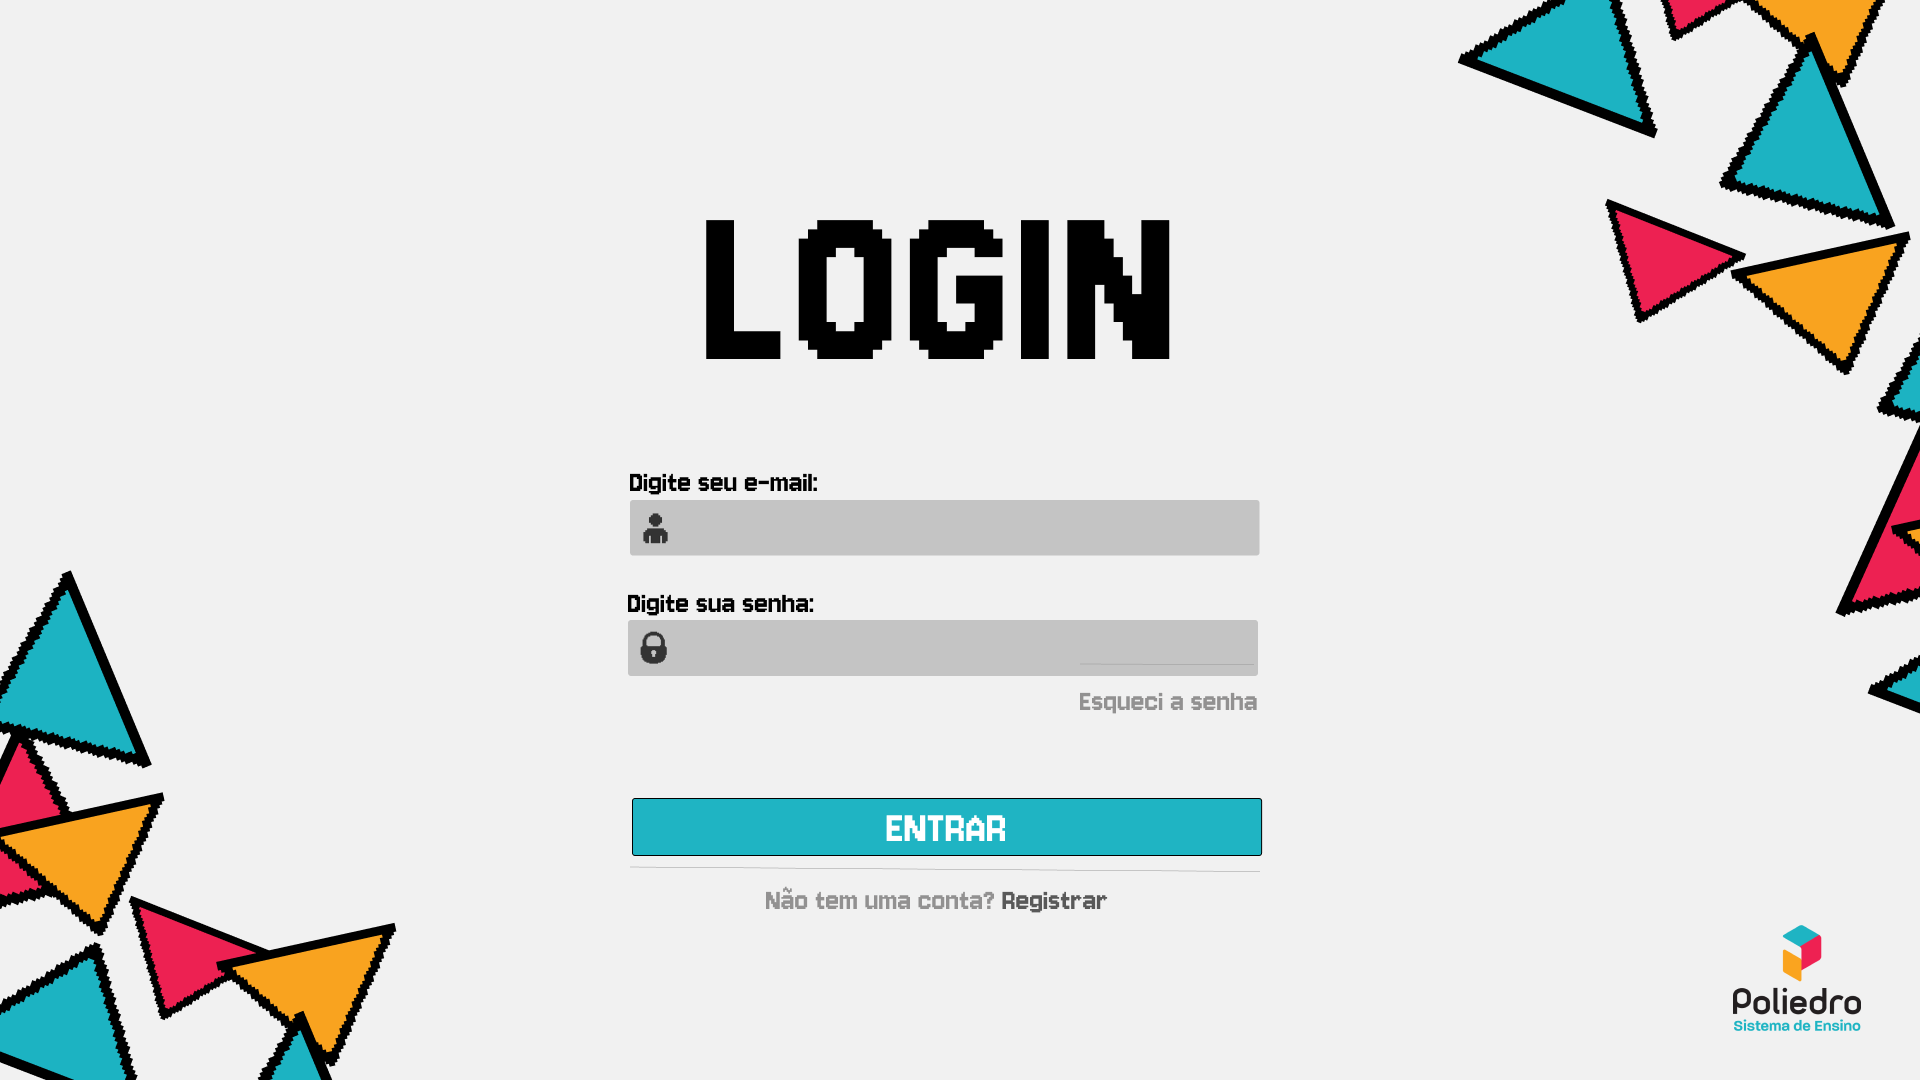
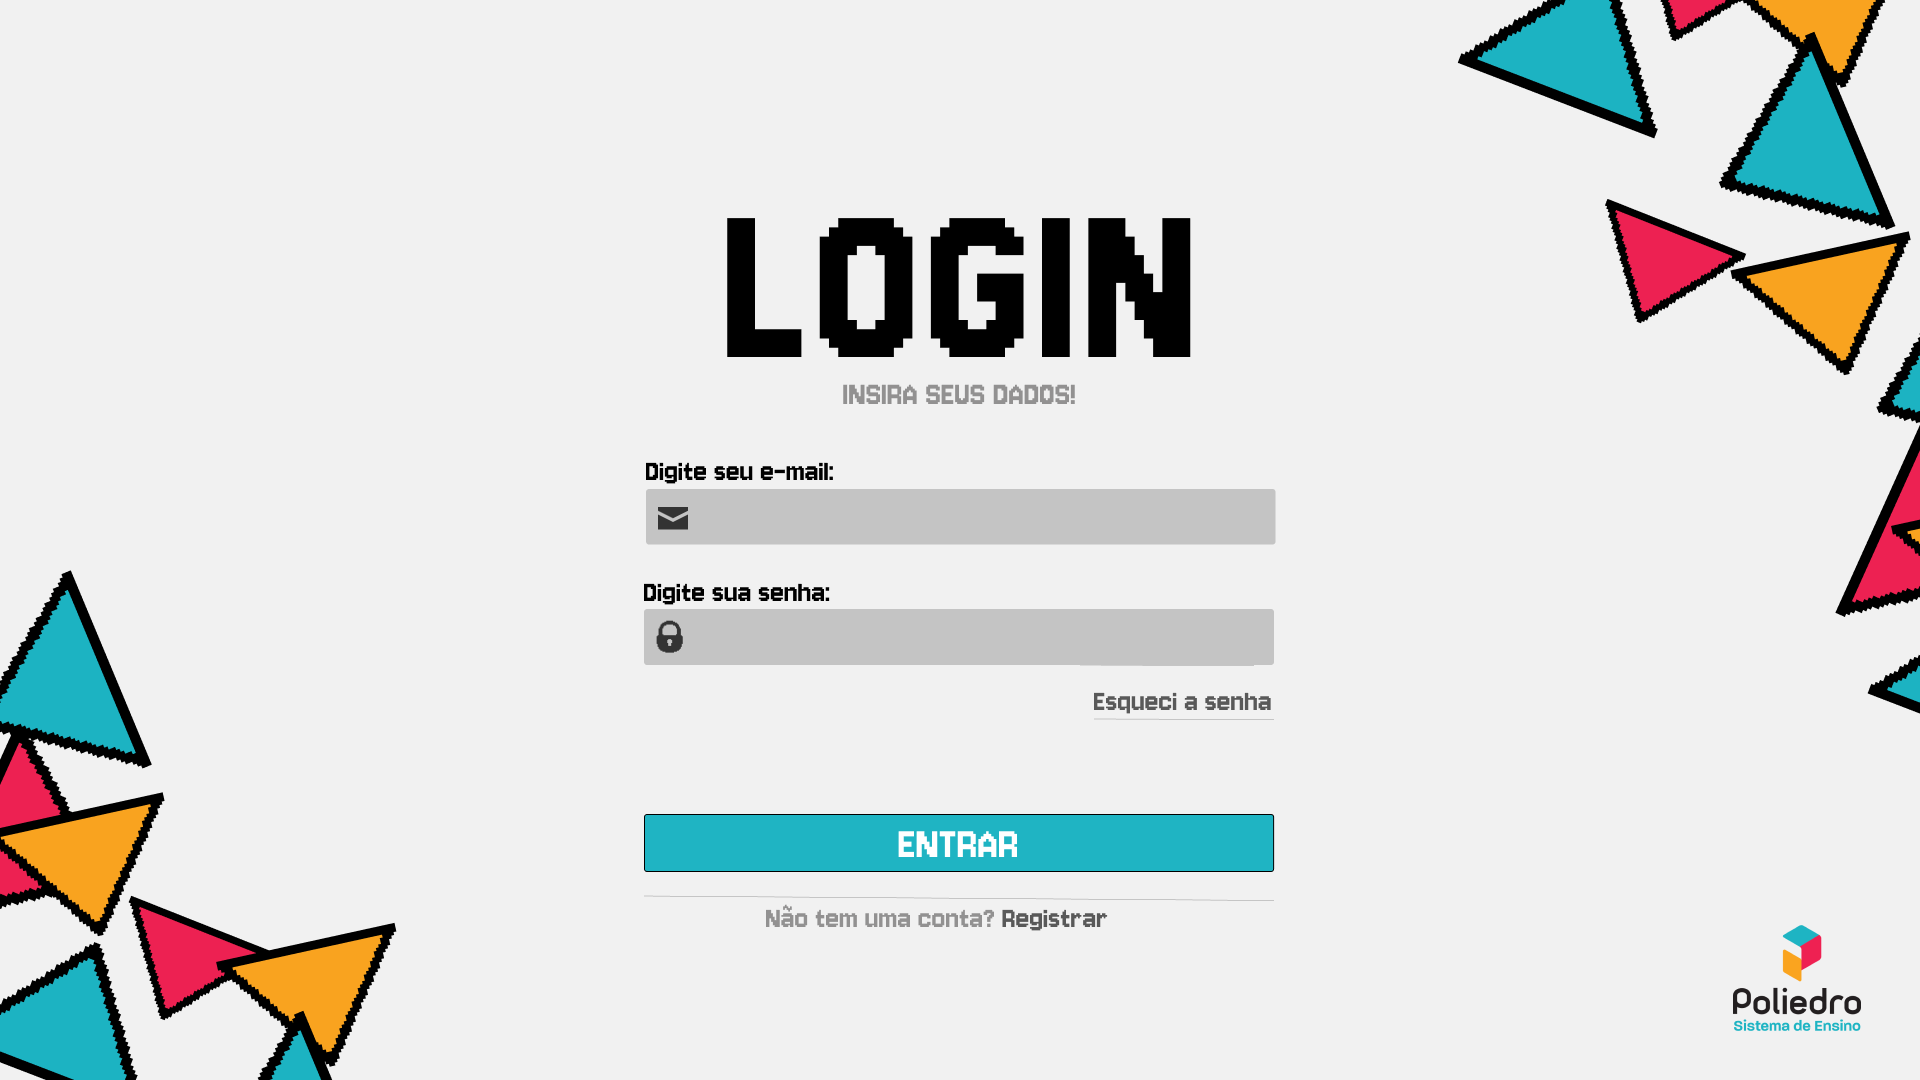
feat: adiciona tela cadastro

Changed region(s): [[0.3125, 0.4278, 0.6875, 0.6722], [0.3438, 0.1833, 0.625, 0.3972], [0.3125, 0.7333, 0.6875, 0.8556]]

diff --git a/PoliCards-1.1.0/src/main/java/telas/TelaCadastro.java b/PoliCards-1.1.0/src/main/java/telas/TelaCadastro.java
@@ -4,6 +4,13 @@
  */
 package telas;
 
+import java.sql.Connection;
+import java.sql.DriverManager;
+import java.sql.PreparedStatement;
+import java.sql.SQLException;
+import javax.swing.JOptionPane;
+import persistencia.ConnectionFactory;
+
 /**
  *
  * @author AMD
@@ -26,33 +33,94 @@ public class TelaCadastro extends javax.swing.JFrame {
     // <editor-fold defaultstate="collapsed" desc="Generated Code">//GEN-BEGIN:initComponents
     private void initComponents() {
 
-        jLabel2 = new javax.swing.JLabel();
-        botaoSenha = new javax.swing.JPasswordField();
-        jLabel1 = new javax.swing.JLabel();
-        boatoCadastro = new javax.swing.JButton();
+        cadastroButton = new javax.swing.JButton();
+        cadastroTextField = new javax.swing.JTextField();
+        senhaConfirmeCadastroPassworldField = new javax.swing.JPasswordField();
+        senhaCadastroPasswordField = new javax.swing.JPasswordField();
+        telaCadastroLabel = new javax.swing.JLabel();
 
         setDefaultCloseOperation(javax.swing.WindowConstants.EXIT_ON_CLOSE);
         setSize(new java.awt.Dimension(1440, 1024));
-        getContentPane().setLayout(null);
-        getContentPane().add(jLabel2);
-        jLabel2.setBounds(6, 208, 0, 16);
-        getContentPane().add(botaoSenha);
-        botaoSenha.setBounds(530, 560, 450, 50);
+        getContentPane().setLayout(new org.netbeans.lib.awtextra.AbsoluteLayout());
 
-        jLabel1.setIcon(new javax.swing.ImageIcon(getClass().getResource("/telas/TELA_CADASTRO.png"))); // NOI18N
-        jLabel1.setFocusable(false);
-        jLabel1.setRequestFocusEnabled(false);
-        jLabel1.setVerifyInputWhenFocusTarget(false);
-        getContentPane().add(jLabel1);
-        jLabel1.setBounds(12, 0, 1440, 1024);
+        cadastroButton.setBorder(null);
+        cadastroButton.setContentAreaFilled(false);
+        cadastroButton.addActionListener(new java.awt.event.ActionListener() {
+            public void actionPerformed(java.awt.event.ActionEvent evt) {
+                cadastroButtonActionPerformed(evt);
+            }
+        });
+        getContentPane().add(cadastroButton, new org.netbeans.lib.awtextra.AbsoluteConstraints(645, 880, 630, 60));
 
-        boatoCadastro.setBorderPainted(false);
-        boatoCadastro.setContentAreaFilled(false);
-        getContentPane().add(boatoCadastro);
-        boatoCadastro.setBounds(490, 740, 500, 50);
+        cadastroTextField.setBackground(new java.awt.Color(196, 196, 196));
+        cadastroTextField.setFont(new java.awt.Font("Segoe UI", 1, 24)); // NOI18N
+        cadastroTextField.setForeground(new java.awt.Color(51, 51, 51));
+        cadastroTextField.setBorder(null);
+        cadastroTextField.addActionListener(new java.awt.event.ActionListener() {
+            public void actionPerformed(java.awt.event.ActionEvent evt) {
+                cadastroTextFieldActionPerformed(evt);
+            }
+        });
+        getContentPane().add(cadastroTextField, new org.netbeans.lib.awtextra.AbsoluteConstraints(690, 500, 580, 50));
+
+        senhaConfirmeCadastroPassworldField.setBackground(new java.awt.Color(196, 196, 196));
+        senhaConfirmeCadastroPassworldField.setFont(new java.awt.Font("Segoe UI", 1, 24)); // NOI18N
+        senhaConfirmeCadastroPassworldField.setBorder(null);
+        getContentPane().add(senhaConfirmeCadastroPassworldField, new org.netbeans.lib.awtextra.AbsoluteConstraints(690, 750, 580, 50));
+
+        senhaCadastroPasswordField.setBackground(new java.awt.Color(196, 196, 196));
+        senhaCadastroPasswordField.setFont(new java.awt.Font("Segoe UI", 1, 24)); // NOI18N
+        senhaCadastroPasswordField.setBorder(null);
+        getContentPane().add(senhaCadastroPasswordField, new org.netbeans.lib.awtextra.AbsoluteConstraints(690, 620, 580, 50));
+
+        telaCadastroLabel.setIcon(new javax.swing.ImageIcon(getClass().getResource("/TELA_CADASTRO.png"))); // NOI18N
+        telaCadastroLabel.setText("jLabel3");
+        getContentPane().add(telaCadastroLabel, new org.netbeans.lib.awtextra.AbsoluteConstraints(0, 0, -1, -1));
 
         pack();
     }// </editor-fold>//GEN-END:initComponents
+
+    private void cadastroTextFieldActionPerformed(java.awt.event.ActionEvent evt) {//GEN-FIRST:event_cadastroTextFieldActionPerformed
+        // TODO add your handling code here:
+    }//GEN-LAST:event_cadastroTextFieldActionPerformed
+
+    private void cadastroButtonActionPerformed(java.awt.event.ActionEvent evt) {//GEN-FIRST:event_cadastroButtonActionPerformed
+    String email = cadastroTextField.getText();
+    String senha = new String(senhaCadastroPasswordField.getPassword());
+
+    // SQL de inserção para a tabela 'alunos' (somente email e senha)
+    String sql = "INSERT INTO alunos (email, senha) VALUES (?, ?)";
+
+    try (Connection conexao = ConnectionFactory.getConnection(); // Usando a ConnectionFactory
+         PreparedStatement stmt = conexao.prepareStatement(sql)) {
+
+        // Definir os valores para a consulta
+        stmt.setString(1, email);  // Substituindo 'email'
+        stmt.setString(2, senha);  // Substituindo 'senha'
+
+        // Executar a consulta
+        int resultado = stmt.executeUpdate();
+
+        // Verificar se a inserção foi bem-sucedida
+        if (resultado > 0) {
+            JOptionPane.showMessageDialog(this, "Cadastro realizado com sucesso!");
+            // Limpar os campos
+            cadastroTextField.setText("");
+            senhaCadastroPasswordField.setPassword("");
+        } else {
+            JOptionPane.showMessageDialog(this, "Erro ao cadastrar.");
+        }
+
+    } catch (SQLException e) {
+        // Exibir uma mensagem com detalhes do erro SQL
+        JOptionPane.showMessageDialog(this, "Erro de banco de dados: " + e.getMessage());
+        e.printStackTrace();  // Logar o erro completo no console
+    } catch (Exception e) {
+        // Tratar qualquer outra exceção
+        JOptionPane.showMessageDialog(this, "Erro inesperado: " + e.getMessage());
+         e.printStackTrace();
+    }
+    }//GEN-LAST:event_cadastroButtonActionPerformed
 
     /**
      * @param args the command line arguments
@@ -90,9 +158,10 @@ public class TelaCadastro extends javax.swing.JFrame {
     }
 
     // Variables declaration - do not modify//GEN-BEGIN:variables
-    private javax.swing.JButton boatoCadastro;
-    private javax.swing.JPasswordField botaoSenha;
-    private javax.swing.JLabel jLabel1;
-    private javax.swing.JLabel jLabel2;
+    private javax.swing.JButton cadastroButton;
+    private javax.swing.JTextField cadastroTextField;
+    private javax.swing.JPasswordField senhaCadastroPasswordField;
+    private javax.swing.JPasswordField senhaConfirmeCadastroPassworldField;
+    private javax.swing.JLabel telaCadastroLabel;
     // End of variables declaration//GEN-END:variables
 }

diff --git a/PoliCards-1.1.0/src/main/java/telas/TelaLogin.java b/PoliCards-1.1.0/src/main/java/telas/TelaLogin.java
@@ -41,6 +41,9 @@ public class TelaLogin extends javax.swing.JFrame {
         telaLoginLabel = new javax.swing.JLabel();
 
         setDefaultCloseOperation(javax.swing.WindowConstants.EXIT_ON_CLOSE);
+        setMaximumSize(null);
+        setMinimumSize(null);
+        setPreferredSize(new java.awt.Dimension(1920, 1080));
         setSize(new java.awt.Dimension(1920, 1080));
         getContentPane().setLayout(new org.netbeans.lib.awtextra.AbsoluteLayout());
 
@@ -51,7 +54,7 @@ public class TelaLogin extends javax.swing.JFrame {
                 loginButtonActionPerformed(evt);
             }
         });
-        getContentPane().add(loginButton, new org.netbeans.lib.awtextra.AbsoluteConstraints(635, 799, 625, 56));
+        getContentPane().add(loginButton, new org.netbeans.lib.awtextra.AbsoluteConstraints(643, 815, 630, 56));
 
         loginTextField.setBackground(new java.awt.Color(196, 196, 196));
         loginTextField.setFont(new java.awt.Font("Segoe UI", 1, 24)); // NOI18N
@@ -62,7 +65,7 @@ public class TelaLogin extends javax.swing.JFrame {
                 loginTextFieldActionPerformed(evt);
             }
         });
-        getContentPane().add(loginTextField, new org.netbeans.lib.awtextra.AbsoluteConstraints(680, 502, 575, 50));
+        getContentPane().add(loginTextField, new org.netbeans.lib.awtextra.AbsoluteConstraints(700, 490, 575, 50));
 
         senhaPasswordField.setBackground(new java.awt.Color(196, 196, 196));
         senhaPasswordField.setFont(new java.awt.Font("Segoe UI", 1, 24)); // NOI18N
@@ -73,18 +76,20 @@ public class TelaLogin extends javax.swing.JFrame {
                 senhaPasswordFieldActionPerformed(evt);
             }
         });
-        getContentPane().add(senhaPasswordField, new org.netbeans.lib.awtextra.AbsoluteConstraints(675, 623, 575, 50));
+        getContentPane().add(senhaPasswordField, new org.netbeans.lib.awtextra.AbsoluteConstraints(700, 610, 575, 50));
 
         registrarButton.setBorder(null);
         registrarButton.setContentAreaFilled(false);
-        getContentPane().add(registrarButton, new org.netbeans.lib.awtextra.AbsoluteConstraints(760, 890, 350, 20));
+        getContentPane().add(registrarButton, new org.netbeans.lib.awtextra.AbsoluteConstraints(760, 900, 350, 30));
 
         esqueciSenhaButton.setBorder(null);
         esqueciSenhaButton.setContentAreaFilled(false);
-        getContentPane().add(esqueciSenhaButton, new org.netbeans.lib.awtextra.AbsoluteConstraints(1080, 690, 180, 30));
+        getContentPane().add(esqueciSenhaButton, new org.netbeans.lib.awtextra.AbsoluteConstraints(1090, 690, 190, 30));
 
+        telaLoginLabel.setHorizontalAlignment(javax.swing.SwingConstants.CENTER);
         telaLoginLabel.setIcon(new javax.swing.ImageIcon(getClass().getResource("/TELA_LOGIN.png"))); // NOI18N
-        getContentPane().add(telaLoginLabel, new org.netbeans.lib.awtextra.AbsoluteConstraints(0, 0, -1, -1));
+        telaLoginLabel.setPreferredSize(new java.awt.Dimension(1280, 720));
+        getContentPane().add(telaLoginLabel, new org.netbeans.lib.awtextra.AbsoluteConstraints(0, 0, 1920, 1080));
 
         pack();
     }// </editor-fold>//GEN-END:initComponents
